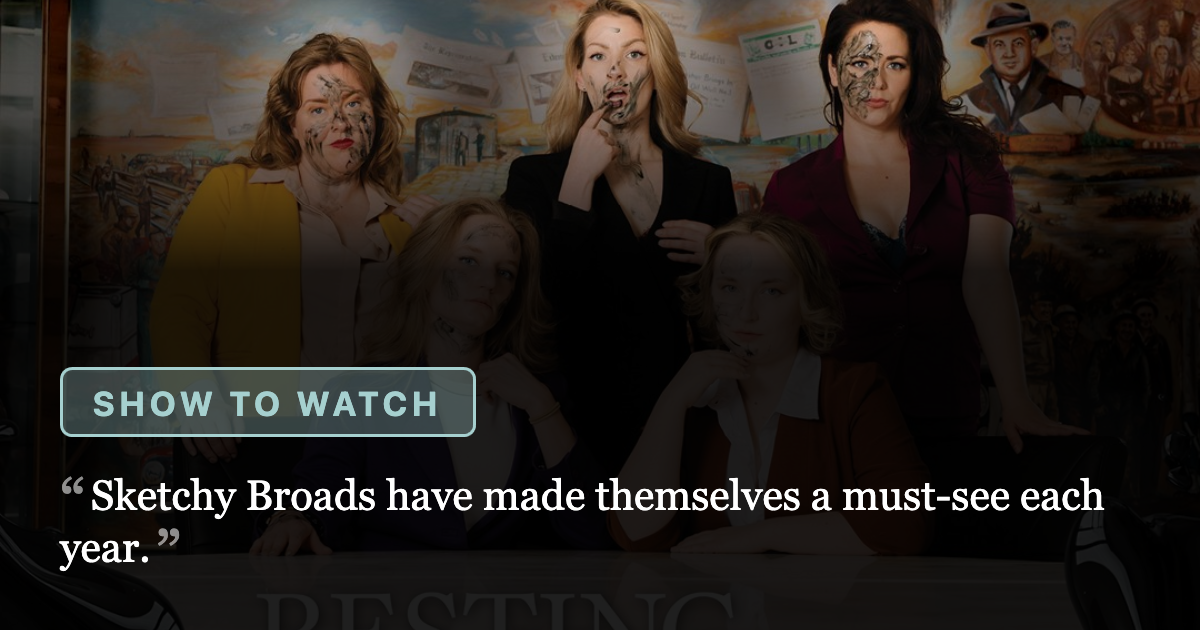
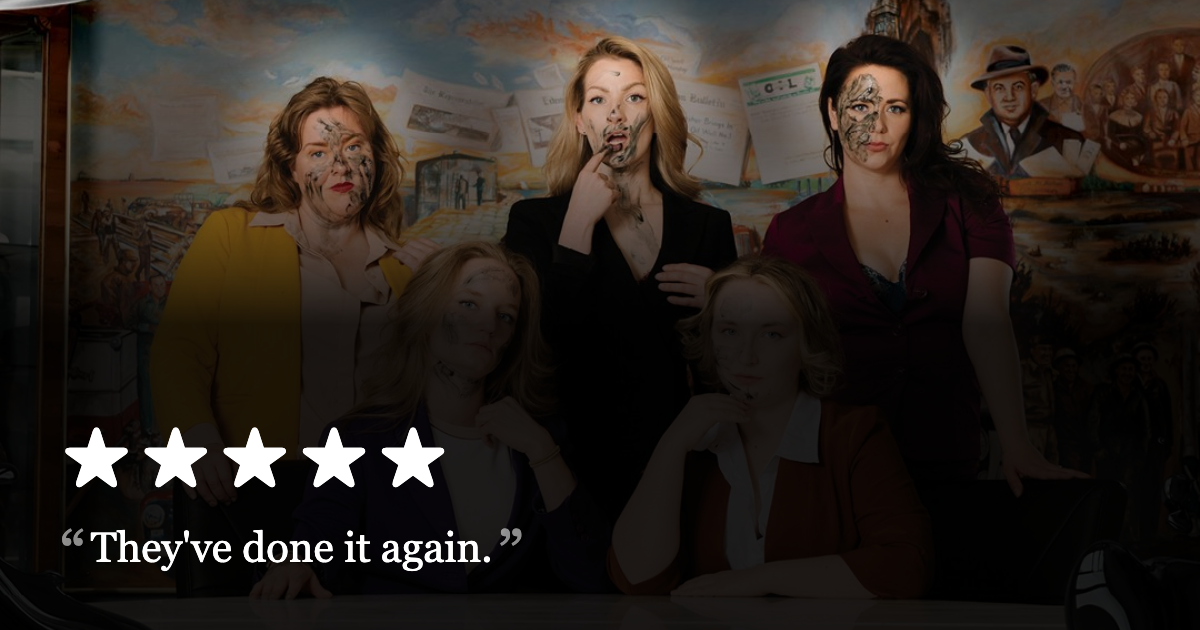
new reviews

diff --git a/app/Http/Controllers/FringeController.php b/app/Http/Controllers/FringeController.php
@@ -923,25 +923,38 @@ class FringeController extends Controller
                 $stars = $entry->stars->value() ?: $this->originalReview($entry)?->stars->value();
 
                 if ($stars) {
-                    return (float) $stars * 10;
+                    $score = (float) $stars * 10;
+                } else {
+                    // Unrated shows slot onto the same scale. The buckets mirror the badges in
+                    // fringe/_review-tag, and are checked in the same order, so the list reads the
+                    // way the badges suggest. Watchlist and improv both sit just above a 3-star
+                    // show, watchlist first: a show Troy picked out unseen is a better bet than
+                    // "it's improv, you get what you get".
+                    $score = match (true) {
+                        // Below everything, including a one-star show. `pending` means the show
+                        // was imported from the ticket site and never looked at, so it carries
+                        // no opinion at all and can't be ranked among ones that do. These are
+                        // drafts and shouldn't reach this list — but if one is ever published by
+                        // accident it sinks rather than floating above the rated shows.
+                        Reviews::isPending($entry) => 0,
+                        $entry->recommendation->value() === 'watchlist' => 32,
+                        $this->isImprov($entry) => 31,
+                        default => 35,
+                    };
                 }
 
-                // Unrated shows slot onto the same scale. The buckets mirror the badges in
-                // fringe/_review-tag, and are checked in the same order, so the list reads the
-                // way the badges suggest. Watchlist and improv both sit just above a 3-star
-                // show, watchlist first: a show Troy picked out unseen is a better bet than
-                // "it's improv, you get what you get".
-                return match (true) {
-                    // Below everything, including a one-star show. `pending` means the show
-                    // was imported from the ticket site and never looked at, so it carries
-                    // no opinion at all and can't be ranked among ones that do. These are
-                    // drafts and shouldn't reach this list — but if one is ever published by
-                    // accident it sinks rather than floating above the rated shows.
-                    Reviews::isPending($entry) => 0,
-                    $entry->recommendation->value() === 'watchlist' => 32,
-                    $this->isImprov($entry) => 31,
-                    default => 35,
+                // Within a star band, most recently touched first: the `updated_at` stamp
+                // Statamic writes on CP saves (what ReviewFreshness reads), else the review's
+                // own date. One composite number rather than a second closure — sortBy with an
+                // array of closures silently sorts by only the last (see publicSortKey).
+                $stamp = $entry->value('updated_at');
+                $touched = match (true) {
+                    ! $stamp => $entry->date()?->getTimestamp() ?? 0,
+                    is_numeric($stamp) => (int) $stamp,
+                    default => Carbon::parse($stamp)->getTimestamp(),
                 };
+
+                return $score * 1e10 + $touched;
             });
 
         // A show-level availability light beside each ticket link, from the sold-out scrape.

diff --git a/content/collections/fringe_reviews/2026-08-09.2026-a-hellmark-christmas-musical-parody.md b/content/collections/fringe_reviews/2026-08-09.2026-a-hellmark-christmas-musical-parody.md
@@ -9,55 +9,67 @@ categories:
 venue: 2ec051cd-4137-4242-9a3a-df6116477772
 poster: fringe/a-hellmark-christmas-musical-parody-poster.jpg
 festival: '2026'
-recommendation: watchlist
+recommendation: recommended
 updated_by: 9c6b6866-e047-4568-b3f4-71623caf17dd
-updated_at: 1786408796
+updated_at: 1786693181
 duration: 60
 companion_videos:
   - ede40468-0d2a-4156-be73-0af81b948f6b
 og_image: fringe/og/2026-a-hellmark-christmas-musical-parody.png
+stars: '3.5'
 content:
   -
     type: paragraph
     content:
       - type: text
-        text: "I'm a sucker for a good Christmas musical."
+        text: 'This show was so close to being magical.'
   -
     type: paragraph
     content:
       - type: text
-        text: "Some might say that the middle of August is out of season for a Christmas musical. For them, I'd point to "
+        text: 'Ultimately, I think it ends up being worse than the sum of its parts.'
+  -
+    type: paragraph
+    content:
+      - type: text
+        text: 'Every performance by each member of the cast was great, with a special shoutout to Andrew Cormier as Nutmeg who absolutely '
       -
-        type: btsPin
-        attrs:
-          id: QJdhdlpCxPRgmrh-cHQdr
-          values:
-            review: b0e2f6c9-afe4-441e-b045-b5e4e1bba479
-            type: review_ref
+        type: text
+        marks:
+          - type: italic
+        text: 'stole the show'
       - type: text
-        text: ', which was my favourite show at the 2023 Fringe. Krampus was co-written by Seth Gilfillan, who also conveniently stars in Hellmark.'
+        text: .
   -
     type: paragraph
     content:
       - type: text
-        text: 'Christmas by default has so much "happy" media and earnest music around it, there''s just so much surface area to subvert. '
+        text: 'There were some show-stopping numbers with the cast showing off their vocal prowess, justifiably. And several songs had well-crafted lyrics with very clever puns. When there were flubs (as there will be with this many people on a small stage), it was gracefully handled and improvisationally made a part of the performance. Everyone did a standout job.'
   -
     type: paragraph
     content:
       - type: text
-        text: 'This team put on '
+        text: "But ultimately, the story... wasn't really. I'm not sure characters, motivations, or even exposition on what was happening was entirely consistent throughout the play. While there were several zingy one-liners, some of them bordered on irrelevance, and I thought started to take away from what was happening on stage."
+  -
+    type: paragraph
+    content:
+      - type: text
+        text: "Ultimately, I think this show shines in it's performances and the cleverness of its lyrics. I almost would prefer it to be a series of vignettes or sketches, or take another pass at revisions. "
+  -
+    type: paragraph
+    content:
+      - type: text
+        text: 'But I do have full confidence that everyone involved has the potential to do absolutely great things, and that was on display here.'
+  -
+    type: paragraph
+    content:
+      - type: text
+        text: "I will say, I went to a midnight showing and some of the lines that didn't land with me absolutely "
       -
-        type: btsPin
-        attrs:
-          id: 1qfL_Rm9cEkMJc5cMdD5O
-          values:
-            review: a7e29746-2155-4991-94b6-7210f5a05b6b
-            type: review_ref
+        type: text
+        marks:
+          - type: italic
+        text: did
       - type: text
-        text: ' last year, which I loved.'
-  -
-    type: paragraph
-    content:
-      - type: text
-        text: "I'm optimistic they'll pull it off."
+        text: " land with the crowd, so I'm willing to accept that it's just a difference in comedy preference."
 ---

diff --git a/content/collections/fringe_reviews/2026-07-30.sketchy-broads-presents-resting-bitumen-face.md b/content/collections/fringe_reviews/2026-07-30.sketchy-broads-presents-resting-bitumen-face.md
@@ -2,10 +2,10 @@
 id: 04e18ed3-8618-4234-9670-d362bd9af40a
 blueprint: fringe_review
 title: 'Sketchy Broads presents: Resting Bitumen Face'
-recommendation: watchlist
+recommendation: recommended
 festival: '2026'
 updated_by: 9c6b6866-e047-4568-b3f4-71623caf17dd
-updated_at: 1786199433
+updated_at: 1786692095
 ticket_link: 'https://tickets.fringetheatre.ca/event/601:7613/'
 artist: e364c0af-c0d9-4ebd-b857-ef8b99fbdbca
 poster: fringe/sketchy-broads-presents-resting-bitumen-face-poster.jpeg
@@ -14,17 +14,23 @@ categories:
 venue: b3a05217-1067-4a85-b50e-f137733dc359
 duration: 60
 og_image: fringe/og/sketchy-broads-presents-resting-bitumen-face.png
+stars: 5
 content:
   -
     type: paragraph
     content:
       - type: text
-        text: 'Sketchy Broads have made themselves a must-see each year.'
+        text: "They've done it again."
   -
     type: paragraph
     content:
       - type: text
-        text: 'The past two fringes have seen dozens of fantastic sketches in '
+        text: "Resting Bitumen Face represents what I think might be Sketchy Broads' best work. "
+  -
+    type: paragraph
+    content:
+      - type: text
+        text: "I've seen dozens of fantastic sketches in "
       -
         type: btsPin
         attrs:
@@ -47,5 +53,17 @@ content:
     type: paragraph
     content:
       - type: text
-        text: 'Sketch is always hit or miss, and with Sketchy Broads they hit way, way more often.'
+        text: "But this year, they've really nailed the balance of short and long. Punchy and drawn out. There's some magic at work here, occasionally there will be a bit that goes on a bit longer than I thought I want. Internally, I'm thinking that it's overstayed its welcome – but it hasn't. They're about to twist it and go somewhere completely unexpected with it."
+  -
+    type: paragraph
+    content:
+      - type: text
+        text: 'They are not afraid to '
+      -
+        type: text
+        marks:
+          - type: italic
+        text: 'commit, '
+      - type: text
+        text: 'completely, 100% to a bit they know is hilarious. And that commitment pays off in the form of an exceptional show.'
 ---

diff --git a/content/collections/fringe_reviews/2026-07-30.weird-al-karaoke-the-greatest-of-the-bestest-hits.md b/content/collections/fringe_reviews/2026-07-30.weird-al-karaoke-the-greatest-of-the-bestest-hits.md
@@ -11,9 +11,38 @@ categories:
   - comedy
   - musical
 updated_by: 9c6b6866-e047-4568-b3f4-71623caf17dd
-updated_at: 1786199483
+updated_at: 1786692441
 artist: b31a4de8-6b54-44c9-ab97-ec4a0306e8c2
 venue: 891a4da7-8dd2-4782-9ebc-60d39274e937
 duration: 60
 og_image: fringe/og/weird-al-karaoke-the-greatest-of-the-bestest-hits.png
+stars: '4.5'
+content:
+  -
+    type: paragraph
+    content:
+      - type: text
+        text: 'Weird Al Karaoke knows what it wants to deliver, and it does.'
+  -
+    type: paragraph
+    content:
+      - type: text
+        text: "They're not building expansive sets, intricate dances or complex storylines."
+  -
+    type: paragraph
+    content:
+      - type: text
+        text: "They're local artists creating dumb parody songs, and showcasing the best ones. There's something really great about delivering exactly what is promised, without overcomplicating it."
+  -
+    type: paragraph
+    content:
+      - type: text
+        text: "Each show has slightly different performances so your's might not be exactly the same as mine, but mine was a "
+      -
+        type: text
+        marks:
+          - type: italic
+        text: banger
+      - type: text
+        text: .
 ---
